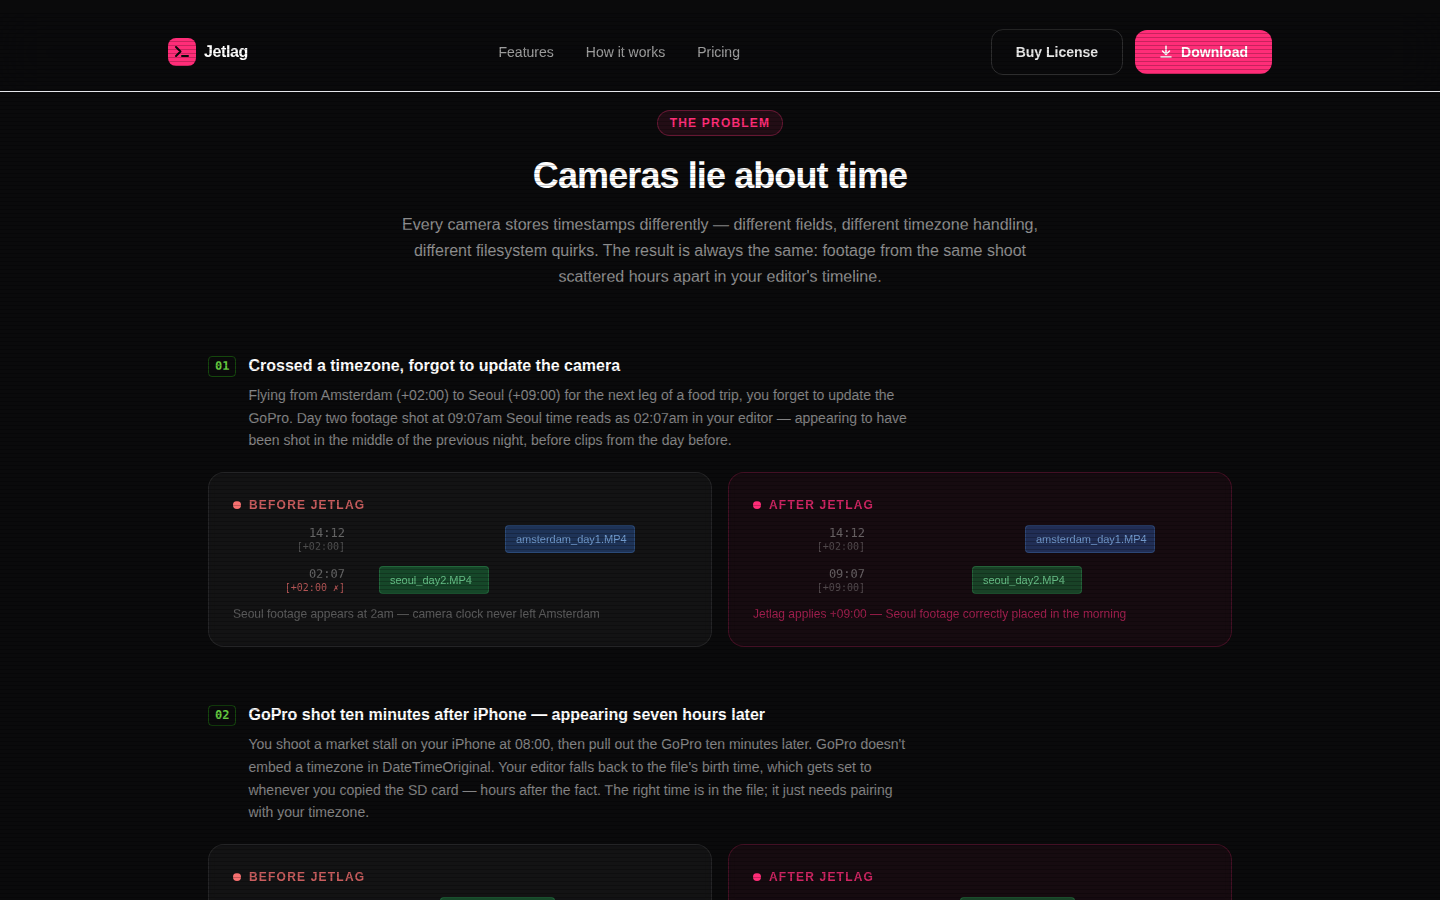
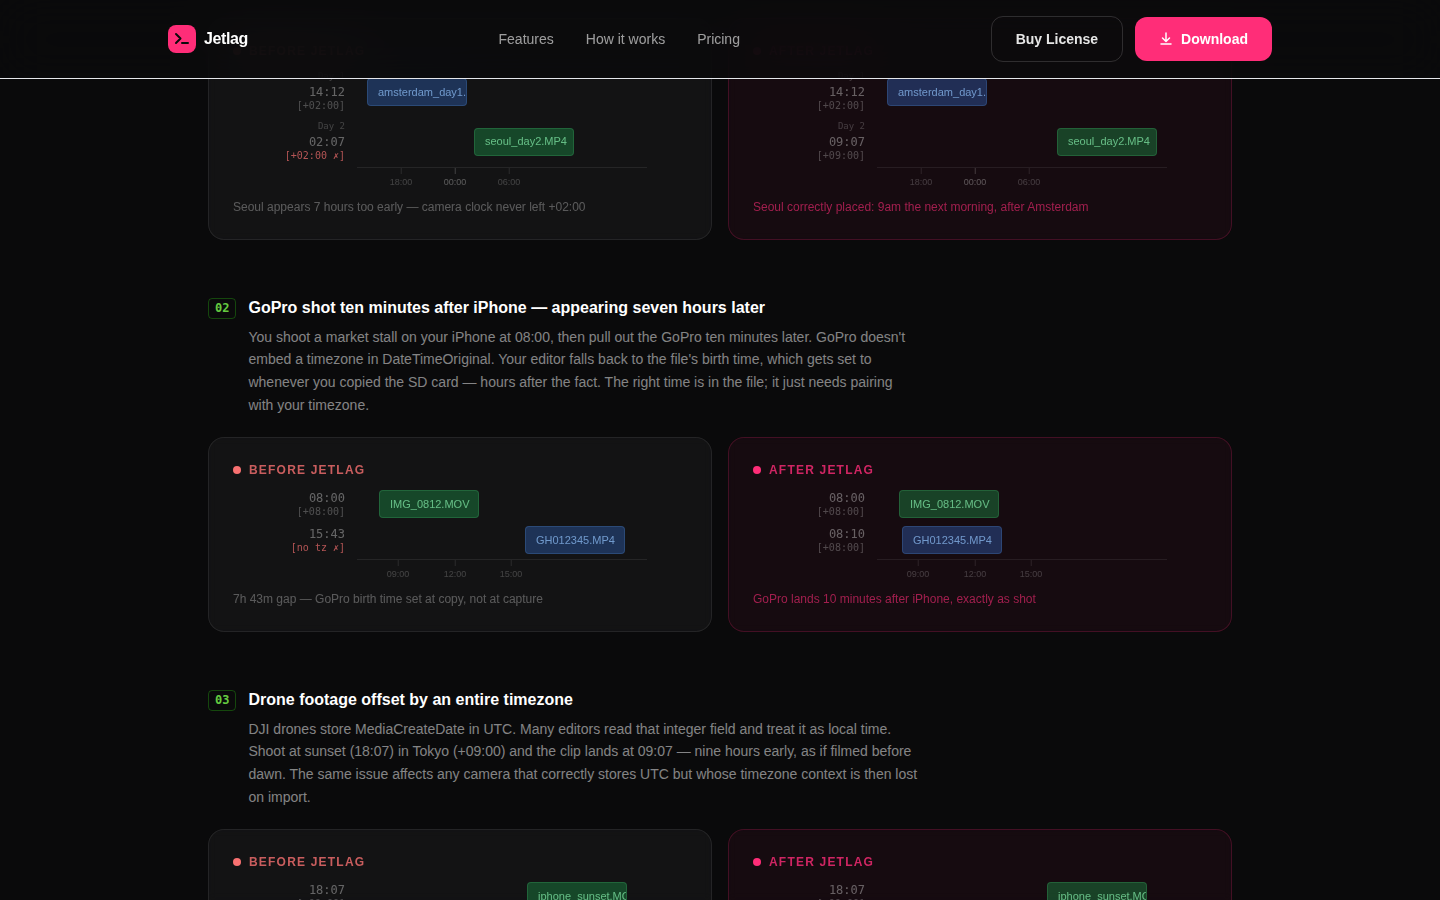
fix scenario 1 and add shared timeline component (#22)
* fix scenario 1 and extract shared timeline component

Scenario 1 was wrong in two ways: the 'before' had Seoul on day 0
(appearing before Amsterdam), when it should be day 1 at 02:07 — correct
day, just 7 hours too early because the GoPro clock never left +02:00.
Both cards now span two days so the 7-hour shift is the visible difference.

Extracted renderTimelineCard and renderClip into web/src/components/timeline.js
shared by all three scenarios. Bar positions auto-derive from { time, day }
— no hand-coded pixel offsets. Each card gets a time axis with auto-spaced
hour ticks (2h/3h/6h based on scale). Day labels appear only when a card
spans multiple days. After-card colors updated to match neon-pink restyle.

Also added SESSION START section to CLAUDE.md: mandatory first action every
session is to fetch main and check if the assigned branch was squash-merged,
creating a fresh branch immediately if so.

Tested by taking screenshots of all three scenarios.

https://claude.ai/code/session_014fBd75GSgp6v64iWGXU35b

* use shared scale across before/after cards so positions are comparable

Each scenario's before and after cards were deriving independent scales
from their own clips, so Amsterdam landed at the same pixel in both —
hiding the fact that Seoul has moved. The shift was invisible.

Replaced renderTimelineCard with renderScenarioCards which builds one
scale from all clips across both cards before rendering either. Now
[…]

diff --git a/web/src/sections/problem.js b/web/src/sections/problem.js
@@ -1,65 +1,29 @@
+import { renderScenarioCards } from '../components/timeline.js'
+
 export function renderProblem() {
-  const colorMap = {
-    blue:   { bar: 'bg-blue-500/30 border-blue-400/20',   text: 'text-blue-300/70' },
-    green:  { bar: 'bg-green-500/30 border-green-400/20', text: 'text-green-300/70' },
-    purple: { bar: 'bg-purple-500/30 border-purple-400/20', text: 'text-purple-300/70' },
-  }
-
-  const renderClip = (clip) => {
-    const c = colorMap[clip.color]
-    const tzClass = clip.correct ? 'text-white/25' : 'text-red-400/70'
-    return /* html */`
-      <div class="flex items-center gap-3">
-        <div class="w-28 text-right font-mono leading-tight flex-shrink-0">
-          <div class="text-xs text-white/35">${clip.time}</div>
-          <div class="text-[10px] ${tzClass}">${clip.tz}</div>
-        </div>
-        <div class="h-7 rounded ${c.bar} ${c.text} border flex items-center px-2.5 text-[11px] overflow-hidden"
-             style="width:${clip.width}px; margin-left:${clip.offset}px; flex-shrink:0">${clip.file}</div>
-      </div>
-    `
-  }
-
-  const renderCard = (card, isAfter) => {
-    const dot        = isAfter ? 'bg-neon-pink'       : 'bg-red-400'
-    const labelClass = isAfter ? 'text-neon-pink/80'  : 'text-red-400/80'
-    const label      = isAfter ? 'After Jetlag'       : 'Before Jetlag'
-    const cardClass  = isAfter ? 'card border-neon-pink/20 bg-neon-pink/5' : 'card'
-    const capClass   = isAfter ? 'text-neon-pink/60'  : 'text-white/30'
-    return /* html */`
-      <div class="${cardClass}">
-        <div class="mb-3 flex items-center gap-2">
-          <div class="h-2 w-2 rounded-full ${dot}"></div>
-          <span class="text-xs font-semibold uppercase tracking-widest ${labelClass}">${label}</span>
-        </div>
-        <div class="space-y-3">
-          ${card.clips.map(renderClip).join('')}
-        </div>
-        <p class="mt-3 text-xs ${capClass}">${card.caption}</p>
-      </div>
-    `
-  }
-
-  // Timeline uses a 24-hour scale mapped to ~250px usable width.
-  // offset = Math.round((h*60+m) / 1440 * 250)
+  // Clip fields: time (HH:MM), day (0-based, 0=same day as first clip),
+  // tz (display string), correct (bool), file (label), color (blue|green|purple).
+  // Bar positions are derived automatically by the timeline component.
   const scenarios = [
     {
       num: '01',
-      title: 'Crossed a timezone, forgot to update the camera',
-      body: `Flying from Amsterdam (+02:00) to Seoul (+09:00) for the next leg of a food trip, you forget to update the GoPro. Day two footage shot at 09:07am Seoul time reads as 02:07am in your editor — appearing to have been shot in the middle of the previous night, before clips from the day before.`,
+      title: 'Filmed in Amsterdam, flew to Seoul, shot the next morning',
+      body: `You film in Amsterdam at 2pm (+02:00), fly overnight to Seoul (+09:00), and shoot the next morning at 9am — but the GoPro was never updated. Seoul's 9am stores as 02:07 Amsterdam time: it lands on the right day but 7 hours too early, as if you filmed in the middle of the night.`,
       before: {
+        // GoPro still on +02:00: Seoul 09:07 local = 02:07 Amsterdam time, day 1 (next day)
         clips: [
-          { time: '14:12', tz: '[+02:00]',    correct: true,  file: 'amsterdam_day1.MP4', color: 'blue',  width: 130, offset: 148 },
-          { time: '02:07', tz: '[+02:00  ✗]', correct: false, file: 'seoul_day2.MP4',     color: 'green', width: 110, offset: 22  },
+          { day: 0, time: '14:12', tz: '[+02:00]',    correct: true,  file: 'amsterdam_day1.MP4', color: 'blue'  },
+          { day: 1, time: '02:07', tz: '[+02:00  ✗]', correct: false, file: 'seoul_day2.MP4',     color: 'green' },
         ],
-        caption: 'Seoul footage appears at 2am — camera clock never left Amsterdam',
+        caption: 'Seoul appears 7 hours too early — camera clock never left +02:00',
       },
       after: {
+        // Corrected: Seoul day 1 (next day), 09:07 +09:00
         clips: [
-          { time: '14:12', tz: '[+02:00]', correct: true, file: 'amsterdam_day1.MP4', color: 'blue',  width: 130, offset: 148 },
-          { time: '09:07', tz: '[+09:00]', correct: true, file: 'seoul_day2.MP4',     color: 'green', width: 110, offset: 95  },
+          { day: 0, time: '14:12', tz: '[+02:00]', correct: true, file: 'amsterdam_day1.MP4', color: 'blue'  },
+          { day: 1, time: '09:07', tz: '[+09:00]', correct: true, file: 'seoul_day2.MP4',     color: 'green' },
         ],
-        caption: 'Jetlag applies +09:00 — Seoul footage correctly placed in the morning',
+        caption: 'Seoul correctly placed: 9am the next morning, after Amsterdam',
       },
     },
     {
@@ -68,15 +32,15 @@ export function renderProblem() {
       body: `You shoot a market stall on your iPhone at 08:00, then pull out the GoPro ten minutes later. GoPro doesn't embed a timezone in DateTimeOriginal. Your editor falls back to the file's birth time, which gets set to whenever you copied the SD card — hours after the fact. The right time is in the file; it just needs pairing with your timezone.`,
       before: {
         clips: [
-          { time: '08:00', tz: '[+08:00]',  correct: true,  file: 'IMG_0812.MOV', color: 'green', width: 115, offset: 83  },
-          { time: '15:43', tz: '[no tz  ✗]', correct: false, file: 'GH012345.MP4', color: 'blue',  width: 115, offset: 164 },
+          { day: 0, time: '08:00', tz: '[+08:00]',   correct: true,  file: 'IMG_0812.MOV', color: 'green' },
+          { day: 0, time: '15:43', tz: '[no tz  ✗]', correct: false, file: 'GH012345.MP4', color: 'blue'  },
         ],
         caption: '7h 43m gap — GoPro birth time set at copy, not at capture',
       },
       after: {
         clips: [
-          { time: '08:00', tz: '[+08:00]', correct: true, file: 'IMG_0812.MOV', color: 'green', width: 115, offset: 83 },
-          { time: '08:10', tz: '[+08:00]', correct: true, file: 'GH012345.MP4', color: 'blue',  width: 115, offset: 85 },
+          { day: 0, time: '08:00', tz: '[+08:00]', correct: true, file: 'IMG_0812.MOV', color: 'green' },
+          { day: 0, time: '08:10', tz: '[+08:00]', correct: true, file: 'GH012345.MP4', color: 'blue'  },
         ],
         caption: 'GoPro lands 10 minutes after iPhone, exactly as shot',
       },
@@ -87,15 +51,15 @@ export function renderProblem() {
       body: `DJI drones store MediaCreateDate in UTC. Many editors read that integer field and treat it as local time. Shoot at sunset (18:07) in Tokyo (+09:00) and the clip lands at 09:07 — nine hours early, as if filmed before dawn. The same issue affects any camera that correctly stores UTC but whose timezone context is then lost on import.`,
       before: {
         clips: [
-          { time: '18:07', tz: '[+09:00]',       correct: true,  file: 'iphone_sunset.MOV', color: 'green',  width: 115, offset: 189 },
-          { time: '09:07', tz: '[UTC→local  ✗]', correct: false, file: 'DJI_0011.MP4',       color: 'purple', width: 100, offset: 95  },
+          { day: 0, time: '18:07', tz: '[+09:00]',       correct: true,  file: 'iphone_sunset.MOV', color: 'green'  },
+          { day: 0, time: '09:07', tz: '[UTC→local  ✗]', correct: false, file: 'DJI_0011.MP4',       color: 'purple' },
         ],
         caption: 'Drone appears 9 hours early — UTC timestamp misread as local time',
       },
       after: {
         clips: [
-          { time: '18:07', tz: '[+09:00]', correct: true, file: 'iphone_sunset.MOV', color: 'green',  width: 115, offset: 189 },
-          { time: '18:09', tz: '[+09:00]', correct: true, file: 'DJI_0011.MP4',      color: 'purple', width: 100, offset: 191 },
+          { day: 0, time: '18:07', tz: '[+09:00]', correct: true, file: 'iphone_sunset.MOV', color: 'green'  },
+          { day: 0, time: '18:09', tz: '[+09:00]', correct: true, file: 'DJI_0011.MP4',      color: 'purple' },
         ],
         caption: 'Drone and iPhone land at the same sunset moment',
       },
@@ -109,7 +73,7 @@ export function renderProblem() {
         <!-- Section header -->
         <div class="mb-16 text-center">
           <span class="section-label">The Problem</span>
-          <h2 class="mt-5 text-3xl font-bold tracking-tight sm:text-4xl">
+          <h2 class="vhs-scanlines mt-5 text-3xl font-bold tracking-tight sm:text-4xl">
             Cameras lie about time
           </h2>
           <p class="mt-4 mx-auto max-w-2xl text-base leading-relaxed text-white/55">
@@ -131,8 +95,7 @@ export function renderProblem() {
                 </div>
               </div>
               <div class="grid gap-4 sm:grid-cols-2 overflow-x-auto">
-                ${renderCard(s.before, false)}
-                ${renderCard(s.after, true)}
+                ${renderScenarioCards(s.before, s.after)}
               </div>
             </div>
           `).join('')}

diff --git a/web/src/components/timeline.js b/web/src/components/timeline.js
@@ -1,0 +1,136 @@
+/**
+ * Shared timeline component used by all problem-section scenarios.
+ *
+ * Clips supply { time: 'HH:MM', day: 0|1|2, tz, file, color, correct }.
+ * Bar positions are derived automatically — no manual offset/width needed.
+ * A time-axis with hour ticks is rendered below the clips so each card
+ * shows the true relative spacing of the footage.
+ */
+
+const colorMap = {
+  blue:   { bar: 'bg-blue-500/30 border-blue-400/20',   text: 'text-blue-300/70' },
+  green:  { bar: 'bg-green-500/30 border-green-400/20', text: 'text-green-300/70' },
+  purple: { bar: 'bg-purple-500/30 border-purple-400/20', text: 'text-purple-300/70' },
+}
+
+// Width of each clip bar (px). The bar area is PAD…(BAR_AREA - CLIP_WIDTH + PAD)
+// so both the first and last clip fit fully within the card.
+const CLIP_WIDTH    = 100
+const BAR_AREA      = 290   // px available from label-column edge to card edge
+const PAD_MINUTES   = 70    // breathing room on each side of the time scale
+
+function toMinutes({ time, day = 0 }) {
+  const [h, m] = time.split(':').map(Number)
+  return day * 1440 + h * 60 + m
+}
+
+// Build a scale object from a set of clips.
+// pxPerMin maps the inner bar area [0 … BAR_AREA - CLIP_WIDTH] to the time range.
+function buildScale(clips) {
+  const times      = clips.map(toMinutes)
+  const minTime    = Math.min(...times)
+  const maxTime    = Math.max(...times)
+  const scaleStart = Math.max(0, minTime - PAD_MINUTES)
+  const scaleEnd   = maxTime + PAD_MINUTES
+  const pxPerMin   = (BAR_AREA - CLIP_WIDTH) / (scaleEnd - scaleStart)
+  return { scaleStart, scaleEnd, pxPerMin }
+}
+
+function clipOffset(clip, scale) {
+  return Math.round((toMinutes(clip) - scale.scaleStart) * scale.pxPerMin)
+}
+
+// Generate hour-tick marks visible within the scale.
+function buildTicks(scale) {
+  const { scaleStart, scaleEnd, pxPerMin } = scale
+  const durationMin = scaleEnd - scaleStart
+  const interval    = durationMin > 15 * 60 ? 6 : durationMin > 6 * 60 ? 3 : 2
+  const ticks       = []
+  const startH      = Math.ceil(scaleStart / 60)
+  const endH        = Math.floor(scaleEnd   / 60)
+  for (let h = startH; h <= endH; h++) {
+    if (h % interval !== 0) continue
+    const px = Math.round((h * 60 - scaleStart) * pxPerMin)
+    if (px < 0 || px > BAR_AREA) continue
+    const dispH    = h % 24
+    const isNewDay = h % 24 === 0 && h > 0
+    ticks.push({ px, label: `${String(dispH).padStart(2, '0')}:00`, isNewDay })
+  }
+  return ticks
+}
+
+function renderClip(clip, scale, multiDay) {
+  const c       = colorMap[clip.color]
+  const tzClass = clip.correct ? 'text-white/25' : 'text-red-400/70'
+  const offset  = clipOffset(clip, scale)
+  const dayTag  = multiDay
+    ? `<div class="text-[9px] text-white/20 mb-0.5">Day ${(clip.day ?? 0) + 1}</div>`
+    : ''
+  return /* html */`
+    <div class="flex items-center gap-3">
+      <div class="w-28 text-right font-mono leading-tight flex-shrink-0">
+        ${dayTag}
+        <div class="text-xs text-white/35">${clip.time}</div>
+        <div class="text-[10px] ${tzClass}">${clip.tz}</div>
+      </div>
+      <div class="h-7 rounded ${c.bar} ${c.text} border flex items-center px-2.5 text-[11px] overflow-hidden flex-shrink-0"
+           style="width:${CLIP_WIDTH}px; margin-left:${offset}px">${clip.file}</div>
+    </div>
+  `
+}
+
+// 124px = w-28 (112px) + gap-3 (12px) — aligns axis with the bar area.
+const AXIS_MARGIN = 124
+
+function renderAxis(scale) {
+  const ticks = buildTicks(scale)
+  return /* html */`
+    <div class="relative h-5 border-t border-white/8 mt-1"
+         style="margin-left:${AXIS_MARGIN}px; width:${BAR_AREA}px">
+      ${ticks.map(({ px, label, isNewDay }) => /* html */`
+        <div class="absolute top-0 flex flex-col items-center"
+             style="left:${px}px; transform:translateX(-50%)">
+          <div class="h-1.5 w-px ${isNewDay ? 'bg-white/20' : 'bg-white/10'}"></div>
+          <div class="text-[9px] mt-0.5 ${isNewDay ? 'text-white/30' : 'text-white/20'}">${label}</div>
+        </div>
+      `).join('')}
+    </div>
+  `
+}
+
+function renderCard(card, isAfter, scale) {
+  const dot        = isAfter ? 'bg-neon-pink'              : 'bg-red-400'
+  const labelClass = isAfter ? 'text-neon-pink/80'         : 'text-red-400/80'
+  const label      = isAfter ? 'After Jetlag'              : 'Before Jetlag'
+  const cardClass  = isAfter ? 'card border-neon-pink/20 bg-neon-pink/5' : 'card'
+  const capClass   = isAfter ? 'text-neon-pink/60'         : 'text-white/30'
+
+  // Show "Day N" labels when this card's clips span multiple days.
+  const days     = new Set(card.clips.map(c => c.day ?? 0))
+  const multiDay = days.size > 1
+
+  return /* html */`
+    <div class="${cardClass}">
+      <div class="mb-3 flex items-center gap-2">
+        <div class="h-2 w-2 rounded-full ${dot}"></div>
+        <span class="text-xs font-semibold uppercase tracking-widest ${labelClass}">${label}</span>
+      </div>
+      <div class="space-y-2">
+        ${card.clips.map(clip => renderClip(clip, scale, multiDay)).join('')}
+      </div>
+      ${renderAxis(scale)}
+      <p class="mt-3 text-xs ${capClass}">${card.caption}</p>
+    </div>
+  `
+}
+
+// Render both cards for a scenario sharing one scale derived from all clips
+// combined. This ensures clip positions are comparable across before/after:
+// Amsterdam lands at the same x in both cards; only Seoul's bar moves.
+export function renderScenarioCards(before, after) {
+  const sharedScale = buildScale([...before.clips, ...after.clips])
+  return `
+    ${renderCard(before, false, sharedScale)}
+    ${renderCard(after,  true,  sharedScale)}
+  `
+}

diff --git a/web/src/sections/hero.js b/web/src/sections/hero.js
@@ -14,7 +14,7 @@ export function renderHero() {
       </div>
 
       <!-- Headline -->
-      <h1 class="spray-paint animate-fade-up opacity-0 mx-auto max-w-3xl text-center text-5xl font-bold leading-tight tracking-tight sm:text-6xl lg:text-7xl" style="animation-delay: 0.2s">
+      <h1 class="vhs-scanlines spray-paint animate-fade-up opacity-0 mx-auto max-w-3xl text-center text-5xl font-bold leading-tight tracking-tight sm:text-6xl lg:text-7xl" style="animation-delay: 0.2s">
         Every camera.<br>
         <span class="text-gradient">One timeline.</span>
       </h1>

diff --git a/web/src/style.css b/web/src/style.css
@@ -57,10 +57,14 @@
     box-shadow: 0 0 40px rgba(255, 45, 120, 0.18), 0 0 80px rgba(57, 255, 20, 0.10), 0 0 120px rgba(255, 45, 120, 0.08);
   }
 
-  /* VHS scanlines — position: fixed so class on body covers entire page */
+  /* VHS scanlines — apply to individual heading elements, not body */
+  .vhs-scanlines {
+    position: relative;
+    overflow: hidden;
+  }
   .vhs-scanlines::before {
     content: '';
-    position: fixed;
+    position: absolute;
     inset: 0;
     background: repeating-linear-gradient(
       0deg,

diff --git a/web/src/sections/features.js b/web/src/sections/features.js
@@ -37,7 +37,7 @@ export function renderFeatures() {
       <div class="mx-auto max-w-6xl">
         <div class="text-center mb-14">
           <span class="section-label">Features</span>
-          <h2 class="mt-5 text-3xl font-bold tracking-tight sm:text-4xl">
+          <h2 class="vhs-scanlines mt-5 text-3xl font-bold tracking-tight sm:text-4xl">
             Everything your pipeline needs
           </h2>
           <p class="mt-4 mx-auto max-w-xl text-base text-white/50">

diff --git a/web/src/sections/pricing.js b/web/src/sections/pricing.js
@@ -31,7 +31,7 @@ export function renderPricing() {
       <div class="mx-auto max-w-5xl">
         <div class="text-center mb-14">
           <span class="section-label">Pricing</span>
-          <h2 class="mt-5 text-3xl font-bold tracking-tight sm:text-4xl">
+          <h2 class="vhs-scanlines mt-5 text-3xl font-bold tracking-tight sm:text-4xl">
             Simple, honest pricing
           </h2>
           <p class="mt-4 mx-auto max-w-md text-base text-white/50">

diff --git a/web/src/sections/how-it-works.js b/web/src/sections/how-it-works.js
@@ -27,7 +27,7 @@ export function renderHowItWorks() {
       <div class="mx-auto max-w-5xl">
         <div class="text-center mb-14">
           <span class="section-label">How it works</span>
-          <h2 class="mt-5 text-3xl font-bold tracking-tight sm:text-4xl">
+          <h2 class="vhs-scanlines mt-5 text-3xl font-bold tracking-tight sm:text-4xl">
             From card to cut in four steps
           </h2>
         </div>

diff --git a/web/index.html b/web/index.html
@@ -11,7 +11,7 @@
     <link rel="icon" type="image/svg+xml" href="/favicon.svg" />
     <script type="module" src="/src/main.js"></script>
   </head>
-  <body class="vhs-scanlines bg-neutral-950 text-white antialiased">
+  <body class="bg-neutral-950 text-white antialiased">
     <div id="app"></div>
   </body>
 </html>

diff --git a/CLAUDE.md b/CLAUDE.md
@@ -2,6 +2,11 @@
   - docs/architecture.md: system overview, two-layer architecture, script flow, media-pipeline, data flow (@@), shared utilities
   - docs/DEVELOPMENT.md: development principles, source of truth hierarchy, timezone handling, exiftool best practices
   - TODO.md: sliding context window — current work in progress, known bugs, next tasks (read at session start)
+- SESSION START — before any other action, every session:
+  1. `git fetch origin main` then `git log origin/main --oneline | head -10`
+  2. If a recent main commit title matches the session-assigned branch name or task (squash-merged indicator), the old branch is dead — **immediately** `git checkout -b claude/<new-descriptive-name>-<session-token> origin/main` before touching any files
+  3. Never do any work on a branch that was squash-merged; GitHub closes that branch's PR and new commits become inaccessible through it
+  4. **`git branch -r --merged` does NOT detect squash merges** — always use the commit title comparison method above
 - LAYOUT — two sibling components at repo root:
   - scripts/ — Python/shell scripts, lib/, media-profiles.yaml, tests/. Work standalone with no knowledge of the app.
   - macos/ — SwiftUI app. Sibling to scripts/, NOT nested inside it. Reads media-profiles.yaml and launches scripts.
@@ -55,7 +60,7 @@
   - testing that returncode is 0 is not testing the actual behavior or effect of the code, just that it ran without error, so would make for a useless test
   - simarly testing result.stdout reveals nothing but what the logs said, which could lie. the changes to the fake test file need to be recorded before and after with actual/expected human readable messages.
 - COMMITS
-  - before **every** commit, always fetch and check the branch: `git fetch origin <branch> main` then `git log origin/main --oneline | head -10` to confirm the branch hasn't been merged since the last commit. **`git branch -r --merged` does NOT detect squash merges (which GitHub uses by default) — never rely on it.** If a recent main commit title matches the PR/branch (e.g. `Claude/create swift UI pr (#5)`), the branch was squash-merged — create a new branch before committing.
+  - before **every** commit, repeat the session-start branch check (see SESSION START above) — merges can land between commits
   - commits should be atomic: one feature change or bug fix per commit where possible
   - every commit message must have a subject line AND a body separated by a blank line — GitHub uses the subject as PR title and body as PR description when the user clicks "Create PR" on the branch
   - commit body should cover: what changed, why, and how it was tested
